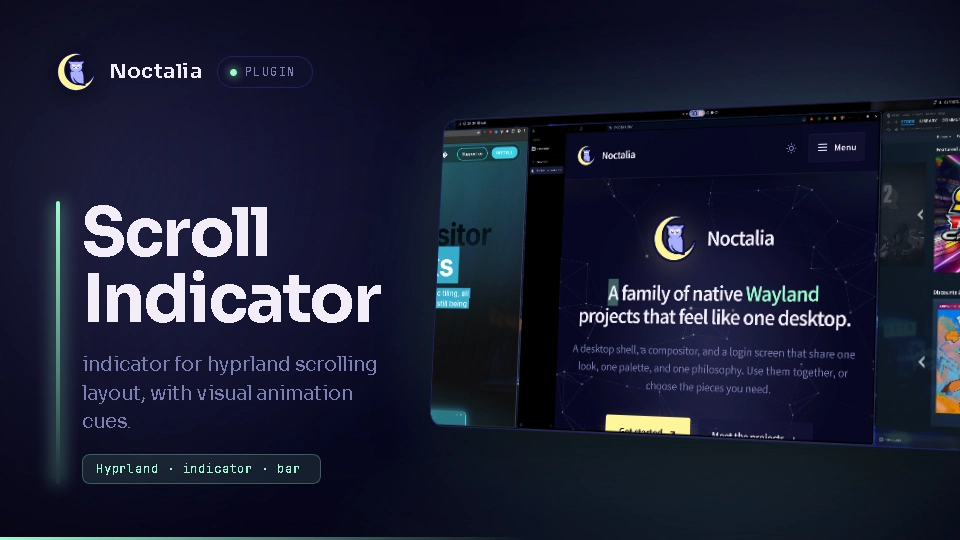
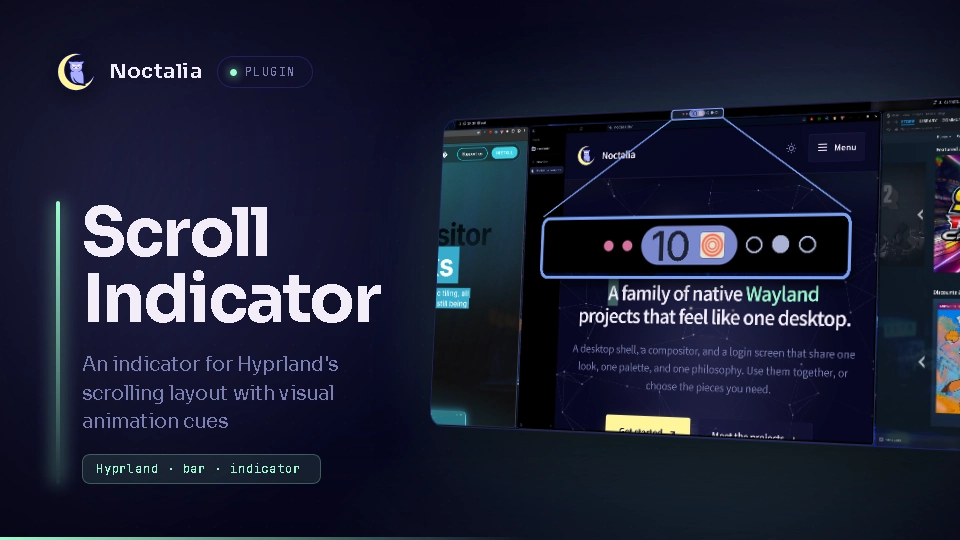
scroll-indicator 1.1.1: README adds visual cues, keybinds and overview pairing (#1294)

diff --git a/scroll-indicator/README.md b/scroll-indicator/README.md
@@ -8,6 +8,11 @@ focused column and **○** for the rest. It hides itself on workspaces that don'
 ○ ● ○ ○      ← 4 columns, the 2nd is focused
 ```
 
+Further down there's also optional Hyprland config for **visual cues**, which work even if you never
+look at the bar: a small **bump** when you hit the first/last column
+([Example keybinds](#example-keybinds)), and a vertical **drawer bounce** when you enter the scrolling
+workspace ([Drawer bounce](#optional-a-drawer-bounce-when-entering-the-scrolling-workspace)).
+
 ## Plugin
 
 | Field | Value |
@@ -59,6 +64,160 @@ hl.config({
 ```
 
 The widget works with any column width and on any workspace using the scrolling layout.
+
+### Example keybinds
+
+Optional, but they make a scrolling workspace pleasant to use next to normal tiling. The same keys do
+the right thing for each layout.
+
+> **This is the author's setup**, tuned for mostly tiling with one scrolling "drawer" workspace for apps
+> kept open in the background. It makes workspace switching the easiest key, and scrolling columns
+> `SHIFT + arrows`. Plain focus moves and column swaps exist but get used less. The author uses `ALT` as
+> the modifier; set `mod` to whatever you use. If you live *in* the scrolling layout, you'll probably
+> prefer plain arrows for columns, Niri-style. Adapt freely.
+
+| Keys | On a scrolling workspace | On other layouts |
+| --- | --- | --- |
+| `SUPER + SHIFT + Left/Right` | move to the previous/next column (a small "bump" at the first/last one) | move the window |
+| `SUPER + M` / `SUPER + N` | swap the column left/right | swap split / toggle split |
+| `SUPER + Left/Right` | previous/next workspace; `Right` on the last workspace (10) wraps to 1 | previous/next workspace |
+
+Add to your Hyprland Lua config (change `mod` if you use another modifier, for example `"ALT"`):
+
+```lua
+local mod = "SUPER"
+local COLUMN_WIDTH = 2/3   -- keep in sync with scrolling.column_width
+
+-- Run a different action depending on the focused workspace's layout.
+-- Each action is a dispatcher (hl.dsp.*) or a function.
+local function per_layout(actions)
+    return function()
+        local ws = hl.get_active_special_workspace() or hl.get_active_workspace()
+        local action = ws and actions[ws.tiled_layout]
+        if type(action) == "function" then
+            action()
+        elseif action then
+            hl.dispatch(action)
+        end
+    end
+end
+
+-- Focus the next column; if focus didn't move (first/last column), briefly widen it as a "bump".
+local function column_or_bump(dir)
+    return function()
+        local before = hl.get_active_window()
+        hl.dispatch(hl.dsp.focus({ direction = dir }))
+        local after = hl.get_active_window()
+        if before and after and before.address == after.address then
+            hl.dispatch(hl.dsp.layout(string.format("colresize %.6f", COLUMN_WIDTH + 0.07)))
+            hl.timer(function()
+                hl.dispatch(hl.dsp.layout(string.format("colresize %.6f", COLUMN_WIDTH)))
+            end, { timeout = 180, type = "oneshot" })
+        end
+    end
+end
+
+hl.bind(mod .. " + SHIFT + Left", per_layout({
+    scrolling = column_or_bump("l"),
+    dwindle   = hl.dsp.window.move({ direction = "l" }),
+    master    = hl.dsp.window.move({ direction = "l" }),
+}))
+hl.bind(mod .. " + SHIFT + Right", per_layout({
+    scrolling = column_or_bump("r"),
+    dwindle   = hl.dsp.window.move({ direction = "r" }),
+    master    = hl.dsp.window.move({ direction = "r" }),
+}))
+
+hl.bind(mod .. " + M", per_layout({
+    scrolling = hl.dsp.layout("swapcol l"),
+    dwindle   = hl.dsp.layout("swapsplit"),
+}))
+hl.bind(mod .. " + N", per_layout({
+    scrolling = hl.dsp.layout("swapcol r"),
+    dwindle   = hl.dsp.layout("togglesplit"),
+}))
+
+hl.bind(mod .. " + Left",  hl.dsp.focus({ workspace = "r-1" }))
+
+-- Next workspace; from the last one (10, e.g. the scrolling "drawer") wrap back to 1
+local LAST_WS = 10
+hl.bind(mod .. " + Right", function()
+    local ws = hl.get_active_workspace()
+    if ws and ws.id and ws.id >= LAST_WS then
+        hl.dispatch(hl.dsp.focus({ workspace = 1 }))
+    else
+        hl.dispatch(hl.dsp.focus({ workspace = "r+1" }))
+    end
+end)
+```
+
+The "bump" uses `colresize`, because Hyprland's scrolling layout won't nudge the row by pixels. If your
+columns aren't all the same width, drop the bump and use `hl.dsp.focus({ direction = "l" })` directly.
+
+Floating windows on a scrolling workspace aren't columns: while one is focused, no dot is filled. To
+keep an app in the row, give it a `tile = true` window rule.
+
+### Optional: a "drawer" bounce when entering the scrolling workspace
+
+Makes the scrolling workspace feel like a drawer: switching to it slides in **vertically** and
+**overshoots slightly before settling** (a bounce), while every other workspace keeps a normal sideways
+slide. Hyprland's workspace rules can't set an animation per workspace, so the keybinds swap the
+`workspaces` animation just before switching.
+
+```lua
+local mod = "SUPER"
+local SCROLL_WS = 10   -- your scrolling workspace
+
+-- Overshoots past the end and settles back. Raise 1.56 for a bigger bounce; 1.0 = no bounce.
+hl.curve("drawer", { type = "bezier", points = { {0.34, 1.56}, {0.64, 1} } })
+hl.curve("smooth", { type = "bezier", points = { {0.16, 1}, {0.3, 1} } })
+
+local function goto_ws(target, move)
+    if target == SCROLL_WS then
+        hl.animation({ leaf = "workspaces", enabled = true, speed = 7, bezier = "drawer", style = "slidefadevert 25%" })
+    else
+        hl.animation({ leaf = "workspaces", enabled = true, speed = 6, bezier = "smooth", style = "slidefade 10%" })
+    end
+    if move then
+        hl.dispatch(hl.dsp.window.move({ workspace = target, follow = true }))
+    else
+        hl.dispatch(hl.dsp.focus({ workspace = target }))
+    end
+end
+
+for i = 1, 10 do
+    local key = i % 10   -- workspace 10 is the 0 key
+    hl.bind(mod .. " + " .. key, function() goto_ws(i) end)
+    hl.bind(mod .. " + SHIFT + " .. key, function() goto_ws(i, true) end)
+end
+```
+
+This replaces your existing `mod + 1–0` and `mod + SHIFT + 1–0` workspace binds. Switching another
+way (clicking a workspace on the bar, `r+1`/`r-1` binds) uses whichever animation was set last; route
+those through `goto_ws` too if you want them consistent.
+
+### Pairs well with: a scroll overview
+
+Hyprland's scrolling layout ships without two things that make it easy to live with: a **position
+indicator** (this widget) and an **overview** of the whole row. For the overview, the
+[hyprland-scroll-overview](https://github.com/yayuuu/hyprland-scroll-overview) plugin by yayuuu shows
+every workspace and column zoomed out, Niri-style, and lets you jump around with the arrow keys:
+
+```sh
+hyprpm add https://github.com/yayuuu/hyprland-scroll-overview.git
+hyprpm update
+hyprpm enable scrolloverview
+```
+
+Bind it (and its arrow keys) as its README describes, for example a toggle on `mod + TAB`. Define its
+`scrolloverview` submap **once**: defining it in two config files binds every key twice, so each press
+fires twice.
+
+Some versions of the overview stop responding to Left/Right when a **floating** window is selected on
+a scrolling workspace. If you hit that, update the plugin, or give apps you park there a
+`tile = true` window rule.
+
+The layout-aware binding style is inspired by the CachyOS and JaKooLit Hyprland configs.
 
 ## Notes
 
